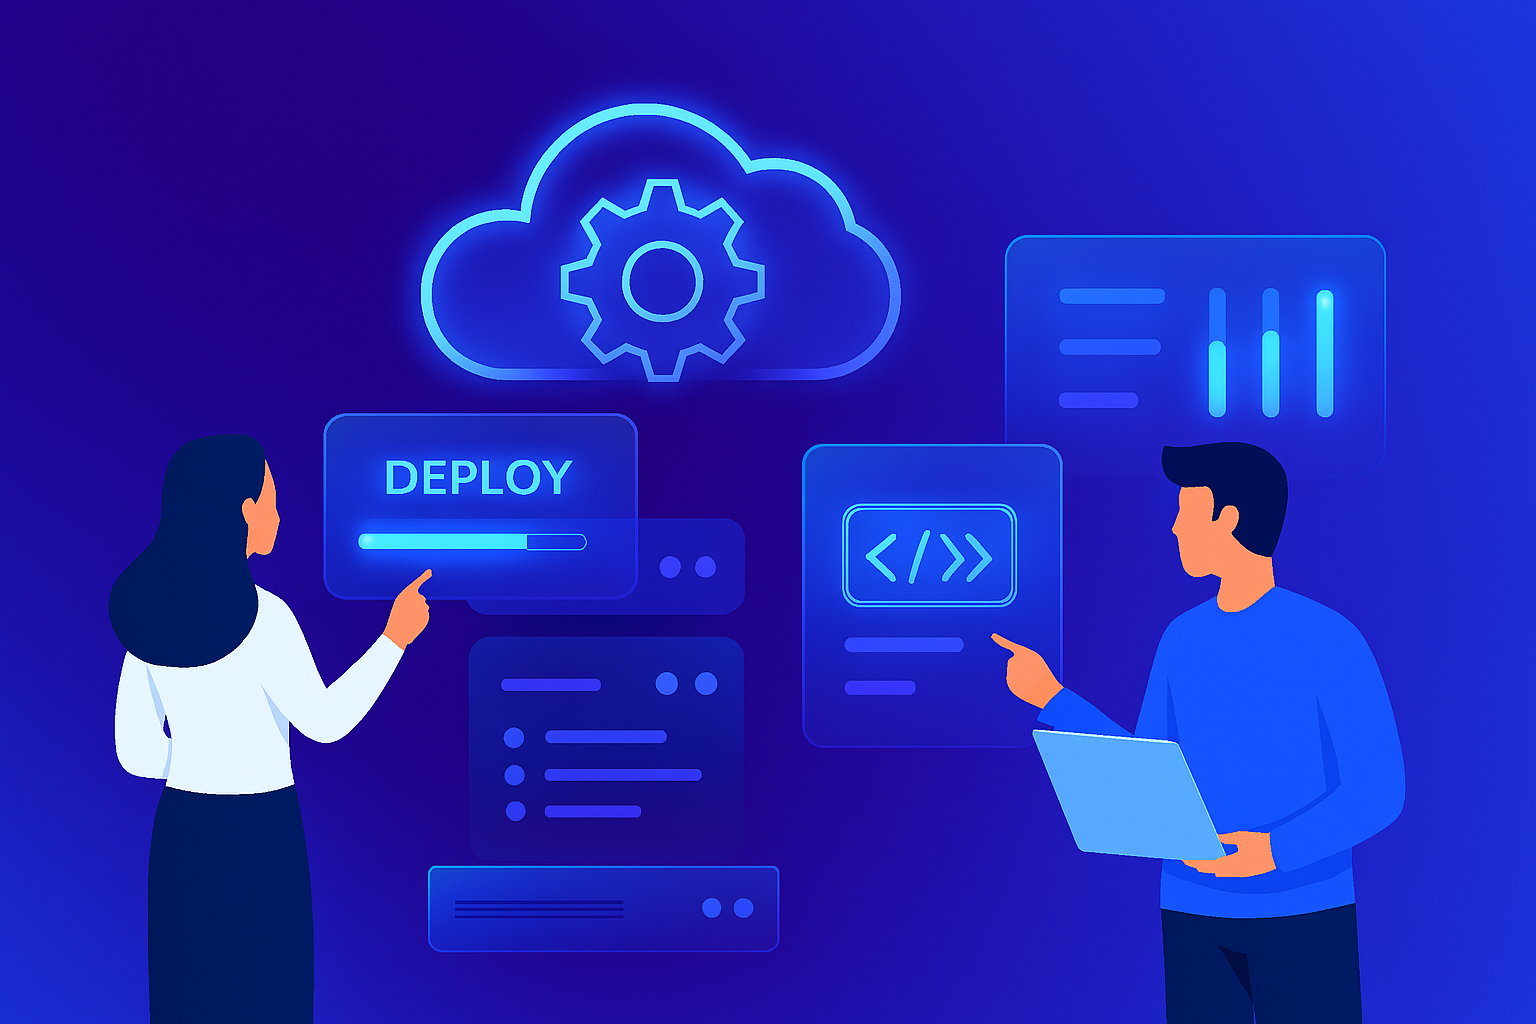
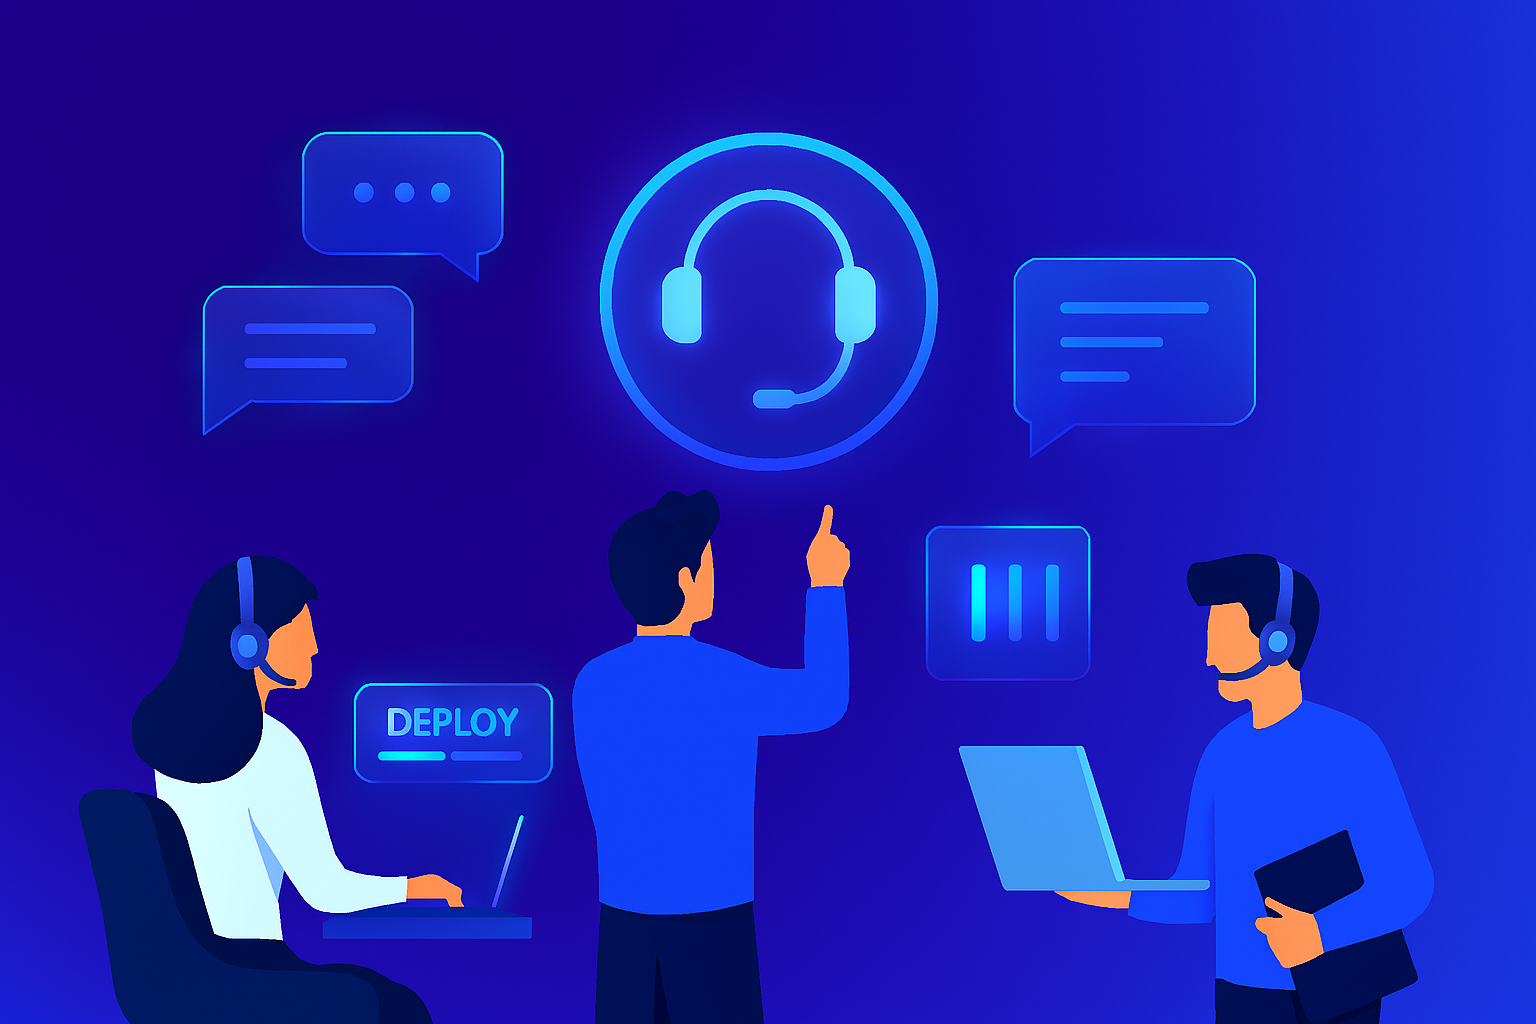
Added Faq Section

diff --git a/src/components/FaqSection.jsx b/src/components/FaqSection.jsx
@@ -1,0 +1,91 @@
+
+import React, { useState } from 'react';
+import FAQIMAGE from "../assets/FaqSectionImages/FAQ.png";
+
+const FaqSection = () => {
+const [faq, setFaq] = useState([
+    {
+        question: 'How do I get started with your service?',
+        answer: 'Getting started is easy! Simply <a href="#" class="text-blue-600 transition-all duration-200 hover:underline">create an account</a> and follow the quick setup steps. You’ll be up and running in minutes!',
+        open: false
+    },
+    {
+        question: 'Is my data safe with us?',
+        answer: 'Absolutely! We prioritize security and use industry-standard encryption. Learn more about our <a href="#" class="text-blue-600 transition-all duration-200 hover:underline">data protection measures</a>.',
+        open: false
+    },
+    {
+        question: 'What payment methods do we accept?',
+        answer: 'We accept multiple payment methods including <a href="#" class="text-blue-600 transition-all duration-200 hover:underline">Credit/Debit cards</a> and PayPal. Payments are secure and hassle-free.',
+        open: false
+    },
+    {
+        question: 'Can I upgrade or change my plan anytime?',
+        answer: 'Yes! You can upgrade, downgrade, or cancel your plan anytime directly from your dashboard. No hidden fees or complicated processes.',
+        open: false
+    },
+    {
+        question: 'What makes your service different from others?',
+        answer: 'We focus on simplicity, speed, and reliability. Unlike others, we offer <a href="#" class="text-blue-600 transition-all duration-200 hover:underline">personalized support</a> and fast onboarding to help you succeed.',
+        open: false
+    },
+    {
+        question: 'How quickly can I expect results?',
+        answer: 'Most of our clients see results within the first few days. Our streamlined process ensures <a href="#" class="text-blue-600 transition-all duration-200 hover:underline">fast and measurable outcomes</a>.',
+        open: false
+    },
+    {
+        question: 'Do you offer support if I get stuck?',
+        answer: 'Yes! Our friendly support team is always ready to help. Contact us via <a href="#" class="text-blue-600 transition-all duration-200 hover:underline">chat or email</a> anytime.',
+        open: false
+    },
+ 
+]);
+
+
+    const toggleFaq = (index) => {
+        setFaq(faq.map((item, i) => {
+            if (i === index) {
+                item.open = !item.open;
+            } else {
+                item.open = false;
+            }
+
+            return item;
+        }));
+    }
+
+    return (
+        <section className="py-10 bg-gray-50 sm:py-16 lg:py-24  ">
+            <div className="px-4 mx-auto sm:px-6 lg:px-8 w-full ">
+                <div className="max-w-3xl mx-auto text-center ">
+                    <h2 className="text-3xl font-bold leading-tight text-black sm:text-4xl lg:text-5xl">Frequently Asked Questions</h2>
+                    <p className="max-w-xl mx-auto mt-4 text-base leading-relaxed text-gray-600">Everything you need to know about getting started and using our service</p>
+                </div>
+<div className='flex flex-row-reverse  justify-evenly'>
+    <img src={FAQIMAGE} alt="QuestionMarkIcon" width={400}  className=' h-150' />
+                <div className="mt-8 min-w-4xl max-w-5xl space-y-5 md:mt-16  ">
+                    {faq.map((item, index) => (
+                        <div key={index} className="transition-all duration-200 bg-white border border-gray-200 cursor-pointer hover:bg-blue-50  shadow-2xl shadow-blue-200 rounded-2 ">
+                            <button type="button" className="flex items-center justify-between w-full px-4 py-5 sm:p-6 " onClick={() => toggleFaq(index)}>
+                                <span className="flex text-lg font-semibold text-black"> {item.question} </span>
+
+                                <svg className={`w-6 h-6 text-orange-500 cursor-pointer ${item.open ? 'rotate-180' : ''}`} xmlns="http://www.w3.org/2000/svg" fill="none" viewBox="0 0 24 24" stroke="currentColor">
+                                    <path strokeLinecap="round" strokeLinejoin="round" strokeWidth="2" d="M19 9l-7 7-7-7" />
+                                </svg>
+                            </button>
+
+                            <div className={`${item.open ? 'block' : 'hidden'} px-4 pb-5 sm:px-6 sm:pb-6`}> 
+                                <p dangerouslySetInnerHTML={{ __html: item.answer }}></p>
+                            </div>
+                        </div>
+                    ))}
+                </div>
+</div>
+                <p className="text-center text-gray-600 textbase mt-9">Didn’t find the answer you are looking for? <a href="#" title="" className="font-medium text-blue-600 transition-all duration-200 hover:text-blue-700 focus:text-blue-700 hover:underline">Contact our support</a></p>
+            </div>
+        </section>
+    );
+}
+
+export default FaqSection;

diff --git a/src/App.jsx b/src/App.jsx
@@ -15,6 +15,7 @@ import { logos } from "./data/LogoSection";
 import { ProcessSection } from "./AcerternityComponents/ProcessSection";
 import { workflowSteps } from "./data/ProcessSection";
 import Footer from "./components/Footer";
+import FaqSection from "./components/FaqSection";
 
 
 
@@ -107,6 +108,21 @@ function App() {
           <ProcessSection content={workflowSteps} />
         </m.div>
       </main>
+
+
+{/* FAQ Section */}
+
+  <m.div
+        className="w-full"
+        initial="hidden"
+        whileInView="visible"
+        variants={fadeUp}
+        transition={{ duration: 0.6, delay: 0.2 }}
+        viewport={{ once: false }}
+      >
+        {/* <Footer /> */}
+        <FaqSection/>
+      </m.div>
 
       {/* Footer */}
       <m.div

diff --git a/src/components/FeatureSection.jsx b/src/components/FeatureSection.jsx
@@ -25,7 +25,7 @@ export default function FeatureSection() {
           Why Choose Teamily ?
         </h2>
 
-        <div className="grid grid-cols-1 md:grid-cols-3 gap-8 xl:gap-12 justify-items-center">
+        <div className="grid grid-cols-1 md:grid-cols-3 gap-8 lg:gap-25 justify-items-center  ">
           {features.map((feature, i) => (
             <div
               key={i}

diff --git a/vite.config.js b/vite.config.js
@@ -6,3 +6,4 @@ import tailwindcss from "@tailwindcss/vite";
 export default defineConfig({
   plugins: [tailwindcss(), react()],
 });
+

diff --git a/src/index.css b/src/index.css
@@ -35,3 +35,4 @@ html {
     }
   }
 }
+
